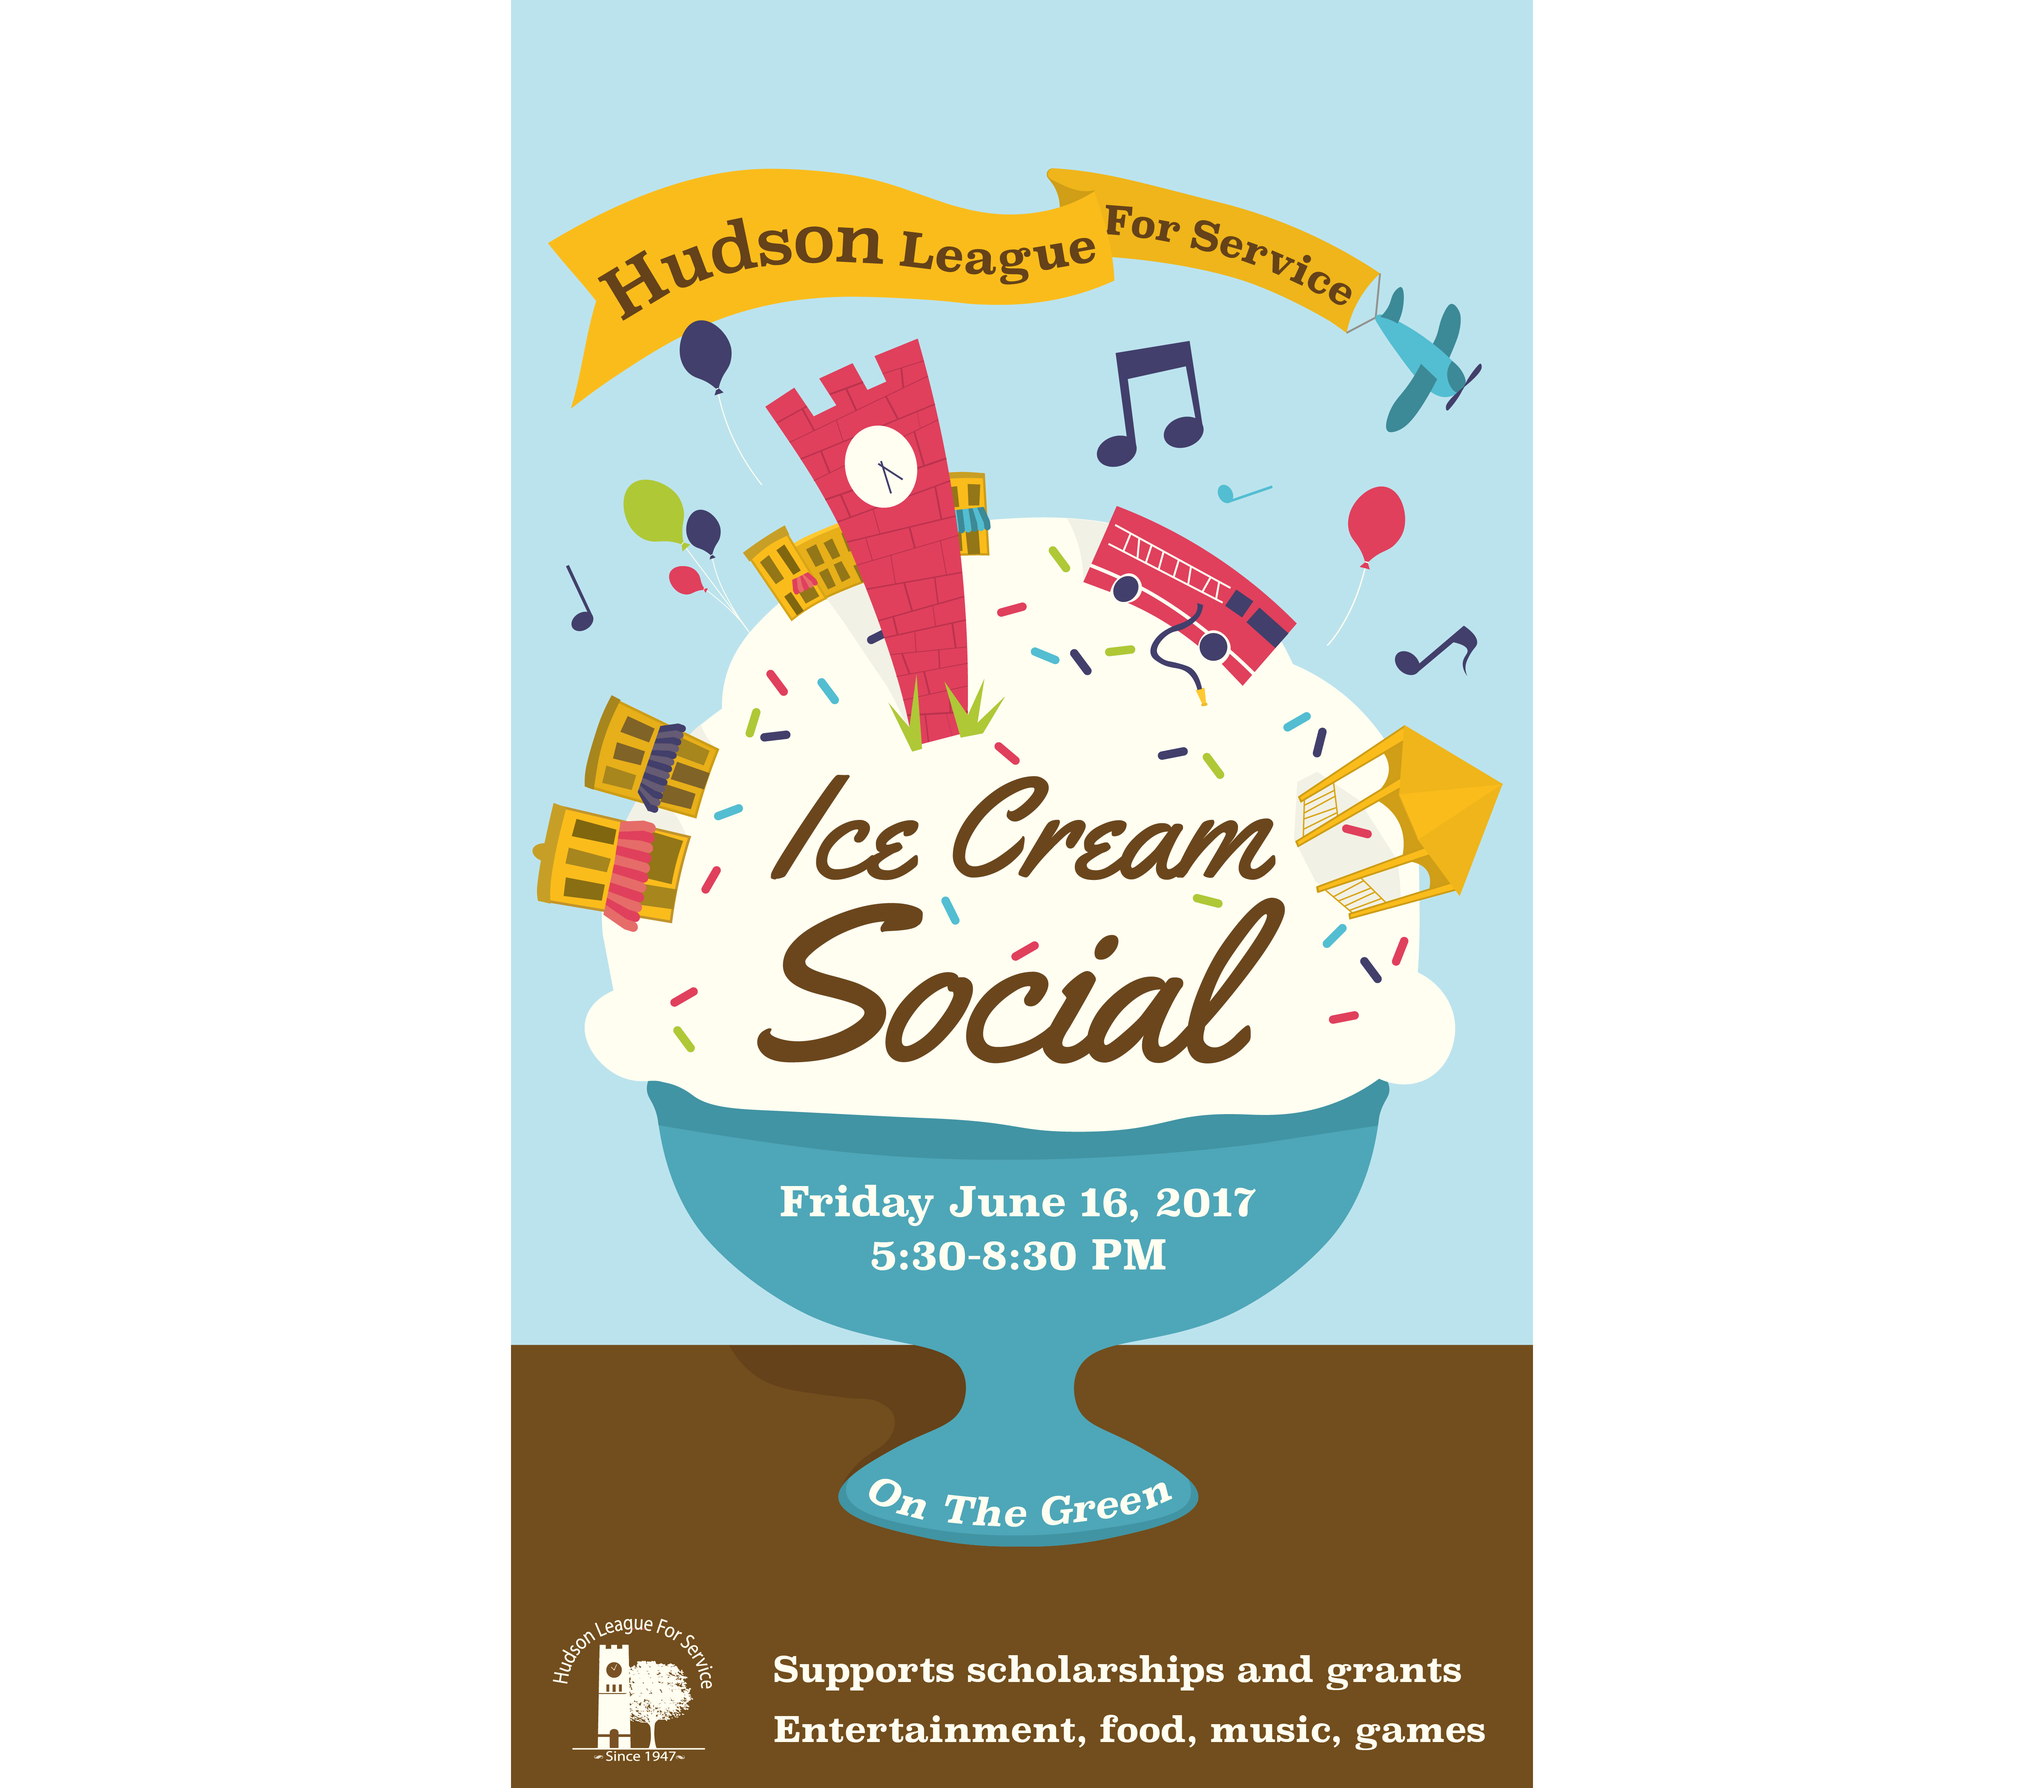
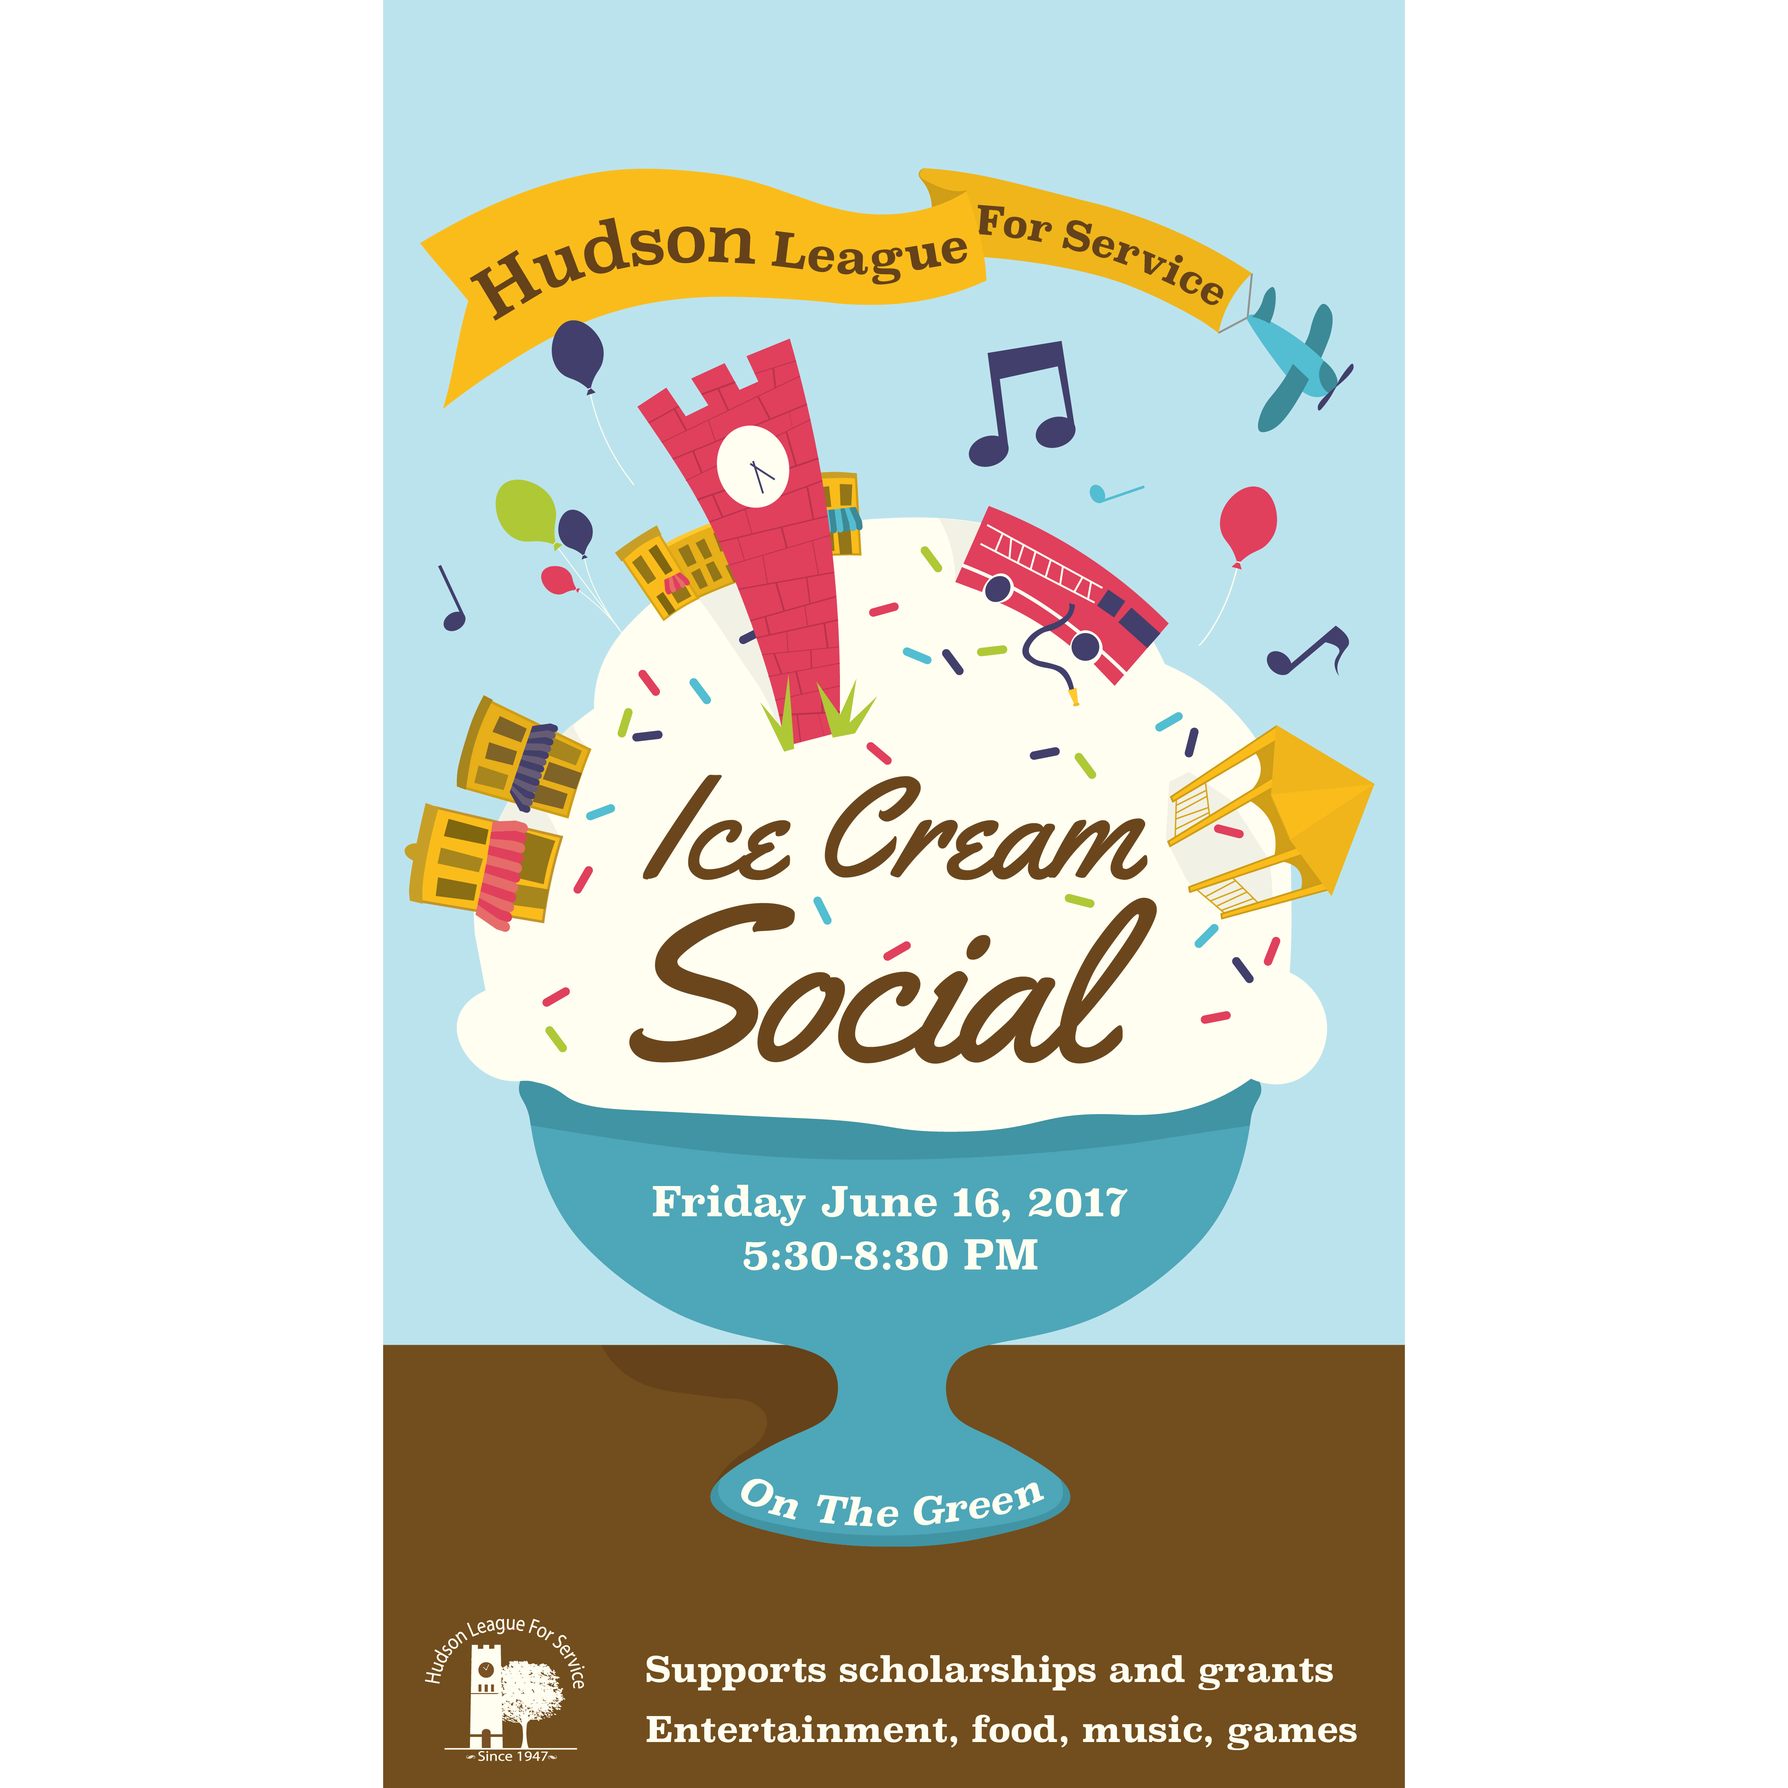
ice cream edits

Changed region(s): [[0.1871, 0.0, 0.811, 1.0], [0.3743, 0.7798, 0.5926, 0.8733], [0.5302, 0.7798, 0.5614, 0.811]]

diff --git a/icecreamsocial.html b/icecreamsocial.html
@@ -47,7 +47,7 @@
 
     <div class="outsiders" class="icecream">
     <picture>
-     <source srcset="./images/icecream_big.jpg" media="(min-width: 500px)">
+     <source srcset="./images/icecream_big.jpg" media="(min-width: 400px)">
      <img src="./images/icecream.jpg" alt="Hudson League for Service Ice Cream Social poster design.">
     </picture>
     </div>
